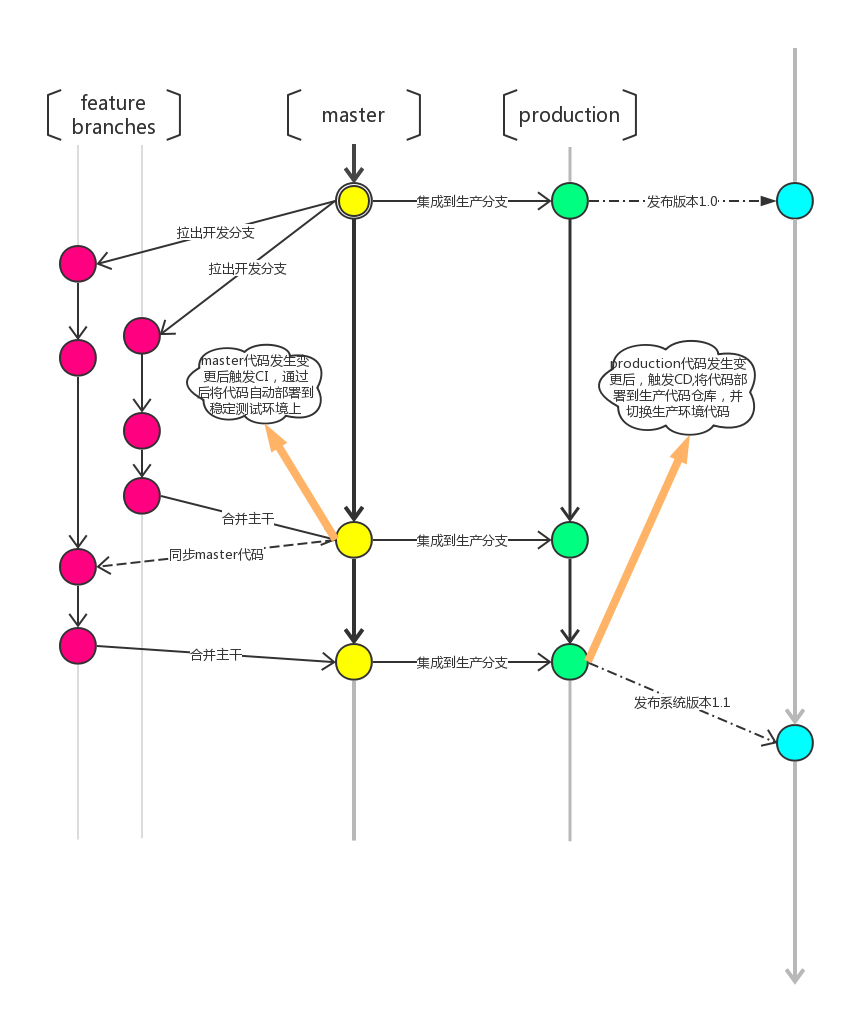
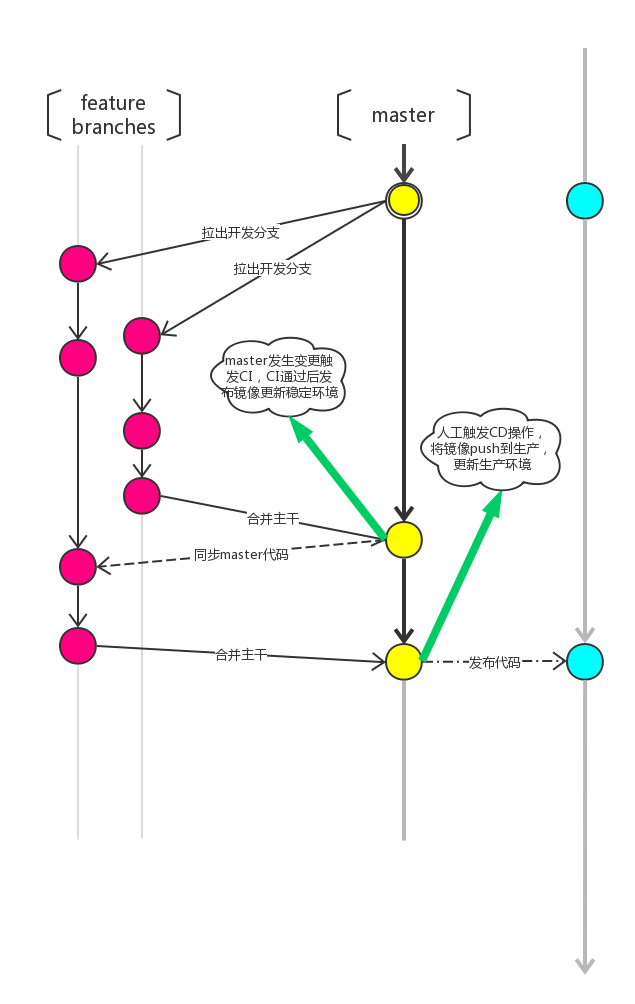
修改开发流程

diff --git a/dev/workflow.md b/dev/workflow.md
@@ -1,0 +1,81 @@
+# 开发工作流
+
+一套基于gitlab + docker的开发工作流，gitlab用于代码的版本管理，docker用于环境的构建，最终的交付产物是镜像（代码+环境）。
+
+### 版本管理的挑战
+
+虽然git的代码管理非常出色，但是我们面对版本管理的时候，依然有非常大得挑战，我们都知道大家工作在同一个仓库上，那么彼此的代码协作必然带来很多问题和挑战，如下：
+
+1. 如何开始一个Feature的开发，而不影响别的Feature？
+2. 由于很容易创建新分支，分支多了如何管理，时间久了，如何知道每个分支是干什么的？
+3. 哪些分支已经合并回了主干？
+4. 线上代码出Bug了，如何快速修复？而且修复的代码要包含到开发人员的分支以及下一个Release?
+
+随着人员的增加，而且项目周期一长就会出现各种问题。因此，**就像代码需要代码规范一样，代码管理同样需要一个清晰的流程和规范**。在参考了gitflow和gitlabfolw后我们采用了gitlabflow并进行了一些细微的调整。
+
+### 分支开发流程
+
+![workflow](/images/workflow.png)
+
+#### 分支介绍
+
+* Master 分支
+
+  master分支是一个常驻分支，使我们的默认分支，是所有分支的源头，所有的其他分支都是源于master，master也是CI/CD的触发分支。
+
+
+* Feature 分支系列
+
+  这个系列的分支主要是基于一个需求（issues）或者一系列需求创建的**开发分支**，一旦开发完成将会合并回master。一般合并上线后，会删除掉这个分支。
+
+  > 需要注意的是，开发分支可以以issue或者feature开头，例如：issue-test、feature-test。
+  >
+  > 通过gitlab ui 拉出来的分支则是以issue的编号开头的，例如：1-test。
+
+#### 工作方式
+
+1. 发现bug或提出新需求时需要到issues列表中提交issue，填写issue内容，选择issue级别，指定响应的开发人员。
+
+2. 开发人员收到issue后，创建开发分支。开发分支的命名规则为`feature(或者issue) - issue编号 - 分支名称`，例如：feature-7-login-find-pwd、issue-7-login-find-pwd。
+
+3. [构建本地开发环境](/dev/develop.md)进行开发，在开发完成后首先进行自测，如果需要进行联调，参考[联调流程]()。
+
+4. 在完成开发分支的开发，联调，测试后，需要发起到master的merge request，审核人员review代码通过后，触发CI集成测试，并反馈测试结果。
+
+   > 1. 从commit的message中或者是merge request的信息中可以关联相关的issue,具体语法是:“fixes \#7”或者“closes \#7”.这样会在issue中创建一个评论，并且merge request会显示相关联的issue.如果这个merge request被接受，这个issue会自动被关闭.
+   > 2. 假如你仅仅想关联这个问题，但是不关闭这个问题，你可以这样写：\#7
+
+   当master上的代码通过CI后，首先会构建当前版本的镜像，将镜像推送到线下镜像仓库中，之后自动更新稳定测试环境。
+
+   ![合并流程](/images/merge.png)
+
+5. 当准备发布上线的时候，可通过上一步合并触发的`pipelines`中人工发布的操作按钮，完成项目的生产发布。
+
+#### gitlab使用注意事项
+
+##### 1.代码什么时候提交到主分支
+
+强调频繁地（一天多次）将代码集成到主干的目的是什么：
+
+1. 快速发现错误。每完成一点更新，就集成到主干，可以快速发现错误，定位错误也比较容易。
+2. 防止分支大幅偏离主干。如果不是经常集成，主干又在不断更新，会导致以后集成的难度变大，甚至难以集成。简单一点来说就是功能开发完成，就可以提交到主分支了。但是功能开发完成的标志点是，测试通过、review 完成。
+
+##### 2.使用rebase来梳理版本历史记录
+
+在merge之前使用rebase命令来梳理版本记录
+
+##### 3.使用tag标记版本
+
+当一个里程碑完成后或者一个里程碑中一个重要的功能点完成后，最好使用tag标记master分支当前的版本。
+
+### 相关参考
+
+[gitlabfolw官方文档](https://docs.gitlab.com.cn/ce/workflow/gitlab_flow.html#introduction)
+
+[gitflow提出者的原文](http://nvie.com/posts/a-successful-git-branching-model/)
+
+[Git工作流指南：集中式工作流](http://blog.jobbole.com/76847/)
+
+[Git工作流指南：Gitflow工作流](http://blog.jobbole.com/76867/)
+
+[gitlab示例](https://gitlab.com/gitlab-org/gitlab-ce/issues)

diff --git a/dev/example.md b/dev/example.md
@@ -28,7 +28,7 @@
 
    > 创建product的项目的原因是因为产品人员并不清楚当前任务应该分配给前端、服务端还是移动端，所以单独创建了个项目用户产品提出需求，这个项目对于群组下的所有人都有查看权限。
 
-3. 产品将讨论后的最终结果录入到product项目，需要对应的各个阶段创建相应的[里程碑](/jiao-fu/xu-qiu.md)，在里程碑下创建本阶段的[任务(issues)](/jiao-fu/xu-qiu.md)。
+3. 产品将讨论后的最终结果录入到product项目，需要对应的各个阶段创建相应的[里程碑](/dev/issue.md)，在里程碑下创建本阶段的[任务(issues)](/dev/issue.md)。
 
    > 如果一个项目没有进行区分，如只有一个服务端，那么可以直接在服务端项目里创建需求即可。
 
@@ -46,7 +46,7 @@
 
 #### 本地开发环境构建
 
-首先根据[本地环境构建](/jiao-fu/kai-fa.md)方法构建本地开发环境，生成项目所需的初始代码、初始数据和环境。
+首先根据[本地环境构建](/dev/develop.md)方法构建本地开发环境，生成项目所需的初始代码、初始数据和环境。
 
 #### 初始化代码仓库
 

diff --git a/SUMMARY.md b/SUMMARY.md
@@ -13,20 +13,20 @@
   * [wiki](build/wiki.md)
   * [auth](build/auth.md)
   * [rap](build/rap.md)
-* [开发交付流程](jiao-fu.md)
-  * [需求](jiao-fu/xu-qiu.md)
-  * [本地开发](jiao-fu/kai-fa.md)
-    * [PHP](jiao-fu/kai-fa/php.md)
-    * [前端](jiao-fu/kai-fa/qian-duan.md)
+* [开发交付流程](dev.md)
+  * [需求](dev/issue.md)
+  * [本地开发](dev/develop.md)
+    * [PHP](dev/develop/php.md)
+    * [前端](dev/develop/qian-duan.md)
     * JAVA
-  * [联调](jiao-fu/lian-tiao.md)
-  * [测试](jiao-fu/ce-shi.md)
-    * [自动集成](jiao-fu/ce-shi/dan-yuan.md)
-    * [独立部署](jiao-fu/ce-shi/mao-yan.md)
+  * [联调](dev/debug.md)
+  * [测试](dev/test.md)
+    * [自动集成](dev/test/ci.md)
+    * [独立部署](dev/test/manual.md)
   * [内网稳定环境]()
-  * [发布生产](jiao-fu/fa-bu.md)
-  * [附录一：分支管理](jiao-fu/workflow.md)
-  * [附录二：流程示例](jiao-fu/example.md)
+  * [发布生产](dev/publish.md)
+  * [附录一：开发工作流](dev/workflow.md)
+  * [附录二：流程示例](dev/example.md)
 * [制度规范](rule.md)
   * [研发规范](rule/rd.md)
     * [API设计规范](rule/api.md)

diff --git a/dev/develop/php.md b/dev/develop/php.md
@@ -64,6 +64,8 @@
    docker-compose -p demo up -d
    ```
 
+   > 如果本地需要开启多个项目环境，修改run命令的端口映射即可，例如：docker-compose -p demo run -p 81:80 -d nginx
+
    编排文件`docker-compose.yml`：
 
    ```yaml
@@ -103,8 +105,6 @@
      redis:
        image: redis:alpine
    ```
-
-   > 如果本地需要开启多个项目环境，修改run命令的端口映射即可，例如：docker-compose -p demo run -p 81:80 -d nginx
 
 2. 修改本地hosts。
 

diff --git a/dev/develop.md b/dev/develop.md
@@ -4,8 +4,8 @@
 
 根据语言划分了不同的开发角色，角色间的开发方式是不同的。
 
-* [前端开发人员](jiao-fu/kai-fa/qian-duan.md)
-* [php开发人员](jiao-fu/kai-fa/php.md)
+* [前端开发人员](dev/kai-fa/qian-duan.md)
+* [php开发人员](dev/kai-fa/php.md)
 * java开发人员
 
 ### 环境准备
